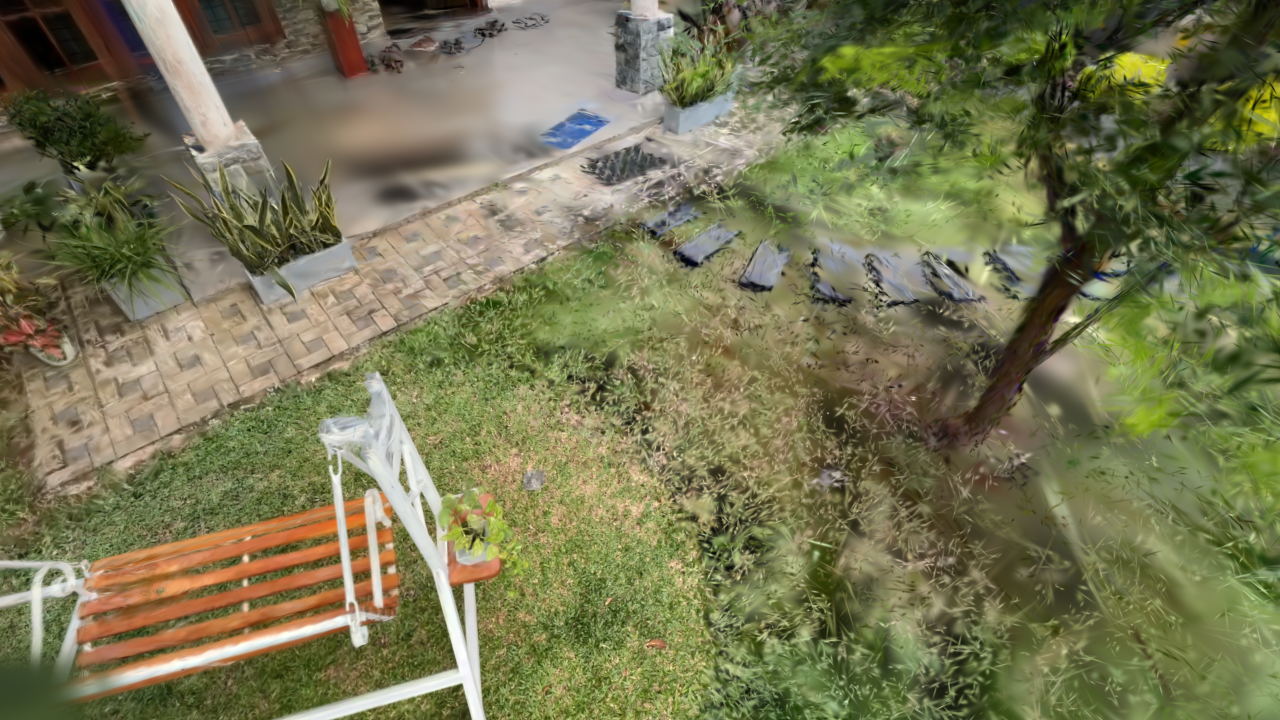
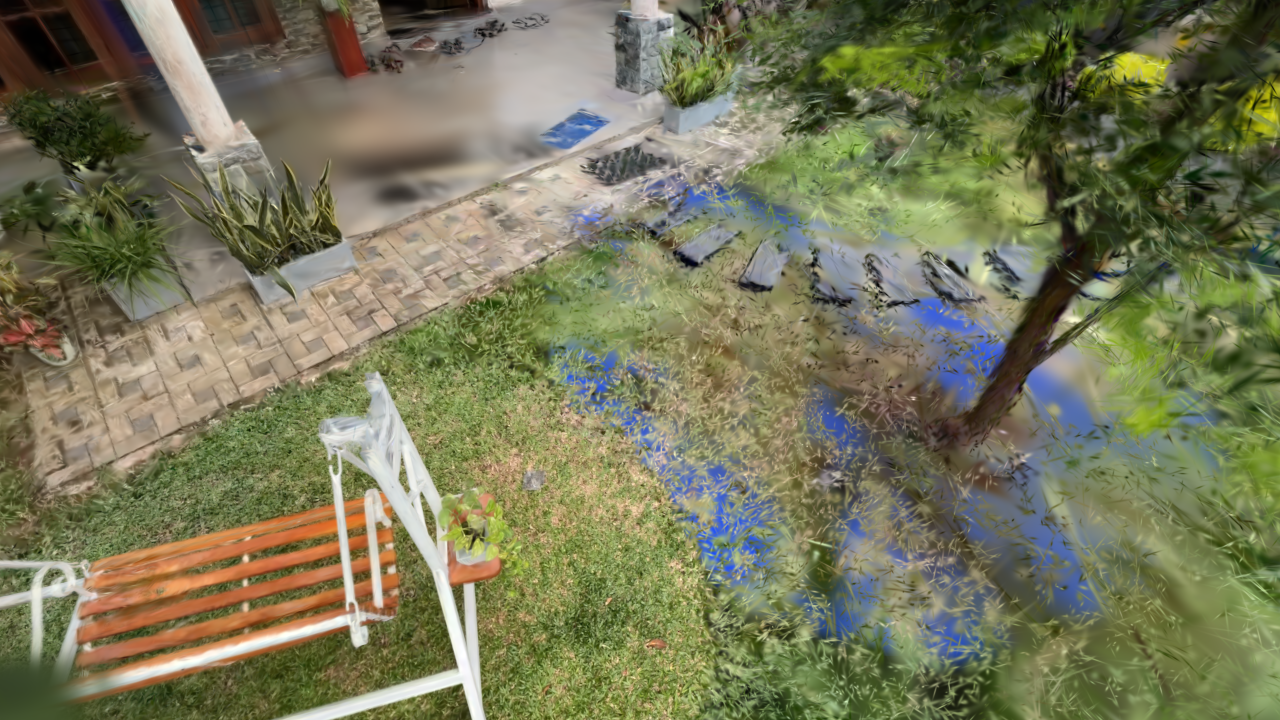
Fixed Mask Not detecting error

diff --git a/DG_3DPlace_Optimization/run_refinement.py b/DG_3DPlace_Optimization/run_refinement.py
@@ -19,6 +19,9 @@ def run_refinement(ckpt_path, target_img_path, mask_path, num_object_gaussians, 
     # 1. Data Loading
     bg_gaussians, obj_gaussians, full_ckpt = load_and_split_scene(ckpt_path, num_object_gaussians, device)
     
+    if not os.path.exists(target_img_path) and os.path.exists(target_img_path.replace(".png", ".jpg")):
+        target_img_path = target_img_path.replace(".png", ".jpg")
+        
     target_rgb = torch.tensor(cv2.imread(target_img_path)[..., ::-1].copy()).permute(2,0,1).float().to(device) / 255.0
     target_mask = torch.tensor(cv2.imread(mask_path, cv2.IMREAD_GRAYSCALE).copy()).unsqueeze(0).float().to(device) / 255.0
     
@@ -26,15 +29,11 @@ def run_refinement(ckpt_path, target_img_path, mask_path, num_object_gaussians, 
     camera.update_resolution(target_rgb.shape[2], target_rgb.shape[1])
     
     # ==========================================
-    # [!] THE PERFECT OPENGL CAMERA FIX
+    # [1] CAMERA ALIGNMENT
     # ==========================================
-    # 1. Recover true row-major matrix (No OpenCV flips!)
     w2c = camera.world_view_transform.transpose(0, 1).clone()
-    
-    # 2. Overwrite with packed column-major view matrix
     camera.world_view_transform = w2c.transpose(0, 1).contiguous()
     
-    # 3. Build strict INRIA projection matrix
     znear, zfar = 0.01, 100.0
     tanHalfFovY = math.tan(camera.FoVy * 0.5)
     tanHalfFovX = math.tan(camera.FoVx * 0.5)
@@ -42,14 +41,12 @@ def run_refinement(ckpt_path, target_img_path, mask_path, num_object_gaussians, 
     P[0, 0] = 1.0 / tanHalfFovX
     P[1, 1] = 1.0 / tanHalfFovY
     P[2, 2] = zfar / (zfar - znear)
-    P[3, 2] = 1.0
+    P[3, 2] = 1.0 # <--- THIS MEANS +Z IS FORWARD
     P[2, 3] = -(zfar * znear) / (zfar - znear)
     
-    # 4. Transpose P and calculate a mathematically valid full projection
     projmatrix = P.transpose(0, 1).contiguous()
     camera.full_proj_transform = torch.matmul(camera.world_view_transform, projmatrix).contiguous()
     camera.camera_center = torch.inverse(w2c)[0:3, 3].contiguous()
-    # ==========================================
 
     bg_color = torch.tensor([0, 0, 0], dtype=torch.float32, device=device)
     
@@ -58,22 +55,40 @@ def run_refinement(ckpt_path, target_img_path, mask_path, num_object_gaussians, 
     loss_module = RefinementLoss(device=device)
     
     optimizer = torch.optim.Adam([
-        {'params': [pose_model.translation], 'lr': 0.005},
-        {'params': [pose_model.rotation], 'lr': 0.001},
-        {'params': [pose_model.scale], 'lr': 0.001}
+        {'params': [pose_model.translation], 'lr': 0.01}, 
+        {'params': [pose_model.rotation], 'lr': 0.005},
+        {'params': [pose_model.scale], 'lr': 0.005}
     ])
 
-    # TELEPORT OBJECT INTO VIEW FRUSTUM
+    # ==========================================
+    # [2] SNIPER TELEPORT (Fixed Depth Direction)
+    # ==========================================
     with torch.no_grad():
-        cam_pos = camera.camera_center
-        # The 3rd column of the true w2c matrix is the Z-axis
-        forward_vec = w2c[2, 0:3] 
-        spawn_pos = cam_pos - (forward_vec * 3.0) 
+        ys, xs = torch.where(target_mask[0] > 0.5)
+        if len(ys) > 0:
+            cx2d, cy2d = xs.float().mean().item(), ys.float().mean().item()
+        else:
+            cx2d, cy2d = camera.image_width / 2.0, camera.image_height / 2.0
+            
+        ndc_x = (cx2d / camera.image_width) * 2.0 - 1.0
+        ndc_y = (cy2d / camera.image_height) * 2.0 - 1.0 # Fixed: +Y is down in OpenCV
+        
+        depth = 5.0 # Positive Z is forward!
+        cam_x = ndc_x * depth * math.tan(camera.FoVx * 0.5)
+        cam_y = ndc_y * depth * math.tan(camera.FoVy * 0.5)
+        cam_space_pos = torch.tensor([cam_x, cam_y, depth, 1.0], device=device) # +depth
+        
+        c2w = torch.inverse(w2c)
+        spawn_pos = torch.matmul(c2w, cam_space_pos)[:3]
+        
         obj_center = obj_gaussians['means'].mean(dim=0)
-        pose_model.translation.copy_(spawn_pos - obj_center)
-        print(f"[*] Teleported object from {obj_center} to {spawn_pos}")
-    
-    epochs = 100
+        desired_scale = 5.0 
+        
+        pose_model.scale.copy_(torch.tensor([desired_scale, desired_scale, desired_scale], device=device))
+        pose_model.translation.copy_(spawn_pos - (obj_center * desired_scale))
+        print(f"[*] Sniper Teleport: Spawned object directly IN FRONT of camera at {spawn_pos}")
+
+    epochs = 200
     
     # 3. Main Loop
     for epoch in range(epochs):
@@ -88,30 +103,35 @@ def run_refinement(ckpt_path, target_img_path, mask_path, num_object_gaussians, 
         
         sh_degree = 3 if 'features_rest' in bg_gaussians else 0
         if 'features_dc' in bg_gaussians:
-            combined_shs = torch.cat([bg_gaussians['features_dc'], transformed_obj['features_dc']], dim=0)
+            combined_shs = torch.cat([bg_gaussians['features_dc'], transformed_obj['features_dc']], dim=0).contiguous()
             if combined_shs.dim() == 2:
-                combined_shs = combined_shs.unsqueeze(1)
+                combined_shs = combined_shs.unsqueeze(1).contiguous()
             if sh_degree > 0:
-                combined_shs_rest = torch.cat([bg_gaussians['features_rest'], transformed_obj['features_rest']], dim=0)
-                combined_shs = torch.cat([combined_shs, combined_shs_rest], dim=1)
+                combined_shs_rest = torch.cat([bg_gaussians['features_rest'], transformed_obj['features_rest']], dim=0).contiguous()
+                combined_shs = torch.cat([combined_shs, combined_shs_rest], dim=1).contiguous()
+            combined_colors = None
         else:
-            combined_colors = torch.cat([bg_gaussians['colors'], transformed_obj['colors']], dim=0)
+            combined_colors = torch.cat([bg_gaussians['colors'], transformed_obj['colors']], dim=0).contiguous()
             combined_shs = None
             
         if combined_opacities.dim() == 1:
-            combined_opacities = combined_opacities.unsqueeze(1)
+            combined_opacities = combined_opacities.unsqueeze(1).contiguous()
 
-        # APPLY MANDATORY C++ KERNEL ACTIVATIONS
-        active_scales = torch.exp(combined_scales)
-        active_opacities = torch.sigmoid(combined_opacities)
-        active_rotations = torch.nn.functional.normalize(combined_rotations, p=2, dim=-1)
+        active_scales = torch.exp(combined_scales).contiguous()
+        active_opacities = torch.sigmoid(combined_opacities).contiguous()
+        active_rotations = torch.nn.functional.normalize(combined_rotations, p=2, dim=-1).contiguous()
 
-        obj_active_scales = torch.exp(transformed_obj['scales'])
-        obj_active_opacities = torch.sigmoid(transformed_obj['opacities'].unsqueeze(1) if transformed_obj['opacities'].dim() == 1 else transformed_obj['opacities'])
-        obj_active_rotations = torch.nn.functional.normalize(transformed_obj['rotations'], p=2, dim=-1)
+        obj_active_scales = torch.exp(transformed_obj['scales']).contiguous()
+        obj_ops = transformed_obj['opacities']
+        if obj_ops.dim() == 1:
+            obj_ops = obj_ops.unsqueeze(1)
+        obj_active_opacities = torch.sigmoid(obj_ops).contiguous()
+        obj_active_rotations = torch.nn.functional.normalize(transformed_obj['rotations'], p=2, dim=-1).contiguous()
 
-        # 4. Rasterization Settings
-        raster_settings = GaussianRasterizationSettings(
+        # ==========================================
+        # [3] RGB RASTERIZER (Uses SH)
+        # ==========================================
+        rgb_raster_settings = GaussianRasterizationSettings(
             image_height=int(camera.image_height),
             image_width=int(camera.image_width),
             tanfovx=math.tan(camera.FoVx * 0.5),
@@ -125,54 +145,67 @@ def run_refinement(ckpt_path, target_img_path, mask_path, num_object_gaussians, 
             prefiltered=False,
             debug=False
         )
-        rasterizer = GaussianRasterizer(raster_settings=raster_settings)
+        rgb_rasterizer = GaussianRasterizer(raster_settings=rgb_raster_settings)
         
-        # 5. Render Full Scene
-        rendered_image, radii = rasterizer(
+        rendered_image, radii = rgb_rasterizer(
             means3D=combined_means,
             means2D=torch.zeros_like(combined_means, requires_grad=True, device=device),
             shs=combined_shs,
-            colors_precomp=combined_colors if combined_shs is None else None,
+            colors_precomp=combined_colors,
             opacities=active_opacities,
             scales=active_scales,
             rotations=active_rotations,
             cov3D_precomp=None
         )
         
-        # 6. Render Mask (Object ONLY)
-        obj_colors = torch.ones((transformed_obj['means'].shape[0], 3), device=device)
-        rendered_mask_img, _ = rasterizer(
-            means3D=transformed_obj['means'], 
+        # ==========================================
+        # [4] MASK RASTERIZER (Bypasses SH)
+        # ==========================================
+        mask_raster_settings = GaussianRasterizationSettings(
+            image_height=int(camera.image_height),
+            image_width=int(camera.image_width),
+            tanfovx=math.tan(camera.FoVx * 0.5),
+            tanfovy=math.tan(camera.FoVy * 0.5),
+            bg=bg_color,
+            scale_modifier=1.0,
+            viewmatrix=camera.world_view_transform,
+            projmatrix=camera.full_proj_transform,
+            sh_degree=0,
+            campos=camera.camera_center,
+            prefiltered=False,
+            debug=False
+        )
+        mask_rasterizer = GaussianRasterizer(raster_settings=mask_raster_settings)
+
+        obj_colors = torch.ones((transformed_obj['means'].shape[0], 3), device=device).contiguous()
+        forced_mask_opacities = torch.ones_like(obj_active_opacities).contiguous()
+        
+        rendered_mask_img, _ = mask_rasterizer(
+            means3D=transformed_obj['means'].contiguous(), 
             means2D=torch.zeros_like(transformed_obj['means'], requires_grad=True, device=device), 
             shs=None,
             colors_precomp=obj_colors,
-            opacities=obj_active_opacities,
+            opacities=forced_mask_opacities,
             scales=obj_active_scales,
             rotations=obj_active_rotations,
             cov3D_precomp=None
         )
         rendered_mask = rendered_mask_img[0:1, :, :]
 
-        # [!] VISUAL CAMERA TEST
         if epoch == 0:
             import torchvision
             os.makedirs("data/outputs/", exist_ok=True)
             torchvision.utils.save_image(rendered_image, "data/outputs/DEBUG_camera_view.png")
             torchvision.utils.save_image(rendered_mask, "data/outputs/DEBUG_rendered_mask.png")
-            print("\n" + "="*50)
-            print("[!] DEBUG IMAGES SAVED. The projection is fixed.")
-            print("="*50 + "\n")
         
-        # 7. Compute Loss & Step
         loss, loss_dict = loss_module(rendered_image, target_rgb, rendered_mask, target_mask)
         loss.backward()
         optimizer.step()
         pose_model.normalize_quaternion()
             
         if epoch % 10 == 0:
-            print(f"Epoch {epoch:03d} | Total: {loss.item():.4f} | MASK: {loss_dict['mask']:.4f}")
+            print(f"Epoch {epoch:03d} | Total: {loss.item():.4f} | MASK: {loss_dict['mask']:.4f} | RGB: {loss_dict['rgb']:.4f}")
             
-    # 8. Save output
     print("[*] Optimization complete. Saving...")
     with torch.no_grad():
         final_obj = pose_model.transform_object(obj_gaussians)
@@ -181,7 +214,6 @@ def run_refinement(ckpt_path, target_img_path, mask_path, num_object_gaussians, 
 if __name__ == "__main__":
     try:
         real_camera = load_scout_camera("data/inputs/selected_camera.pt")
-
         run_refinement(
             ckpt_path="data/inputs/scene_with_initial_object.ckpt",
             target_img_path="data/inputs/diffusion_target.png",